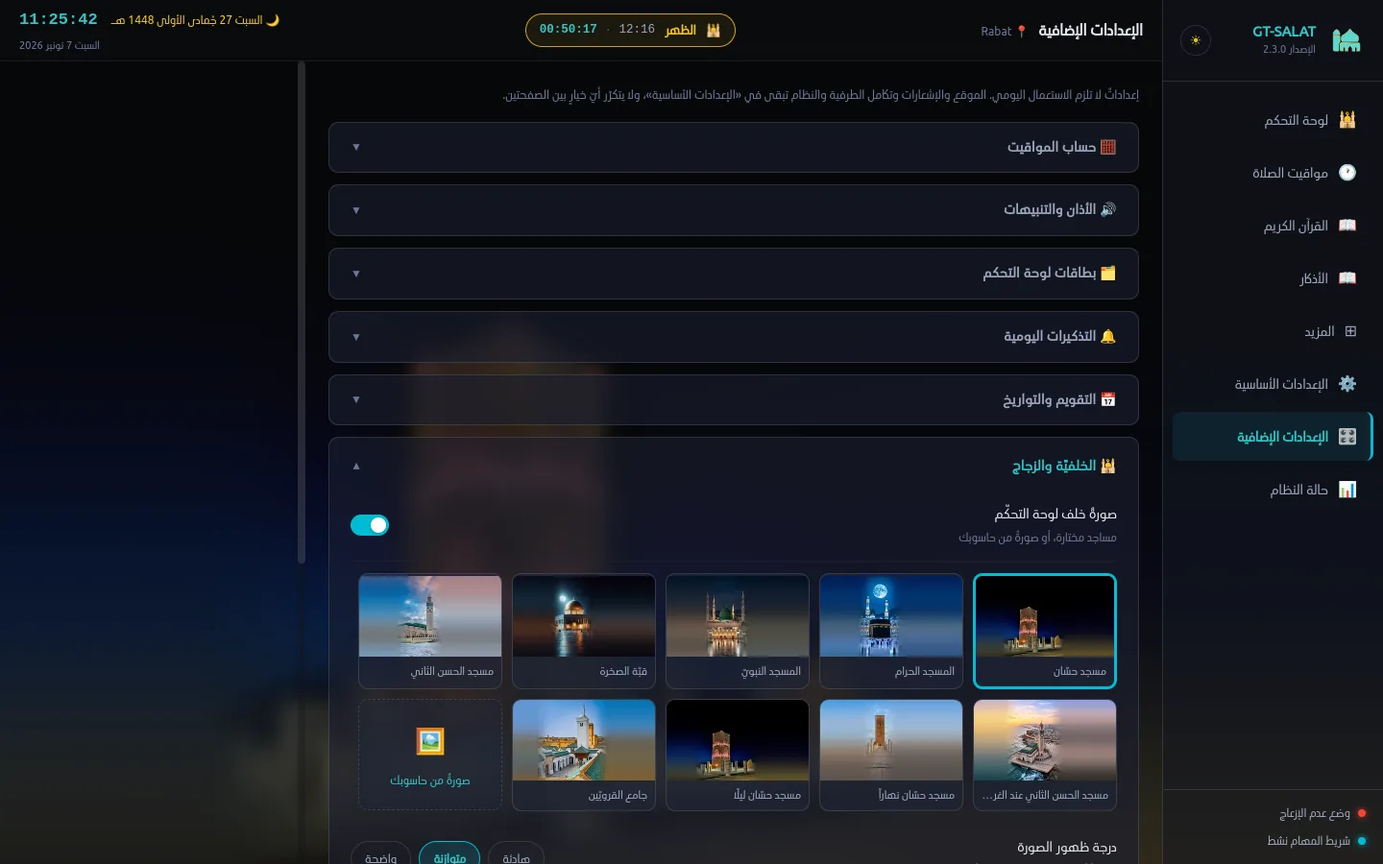
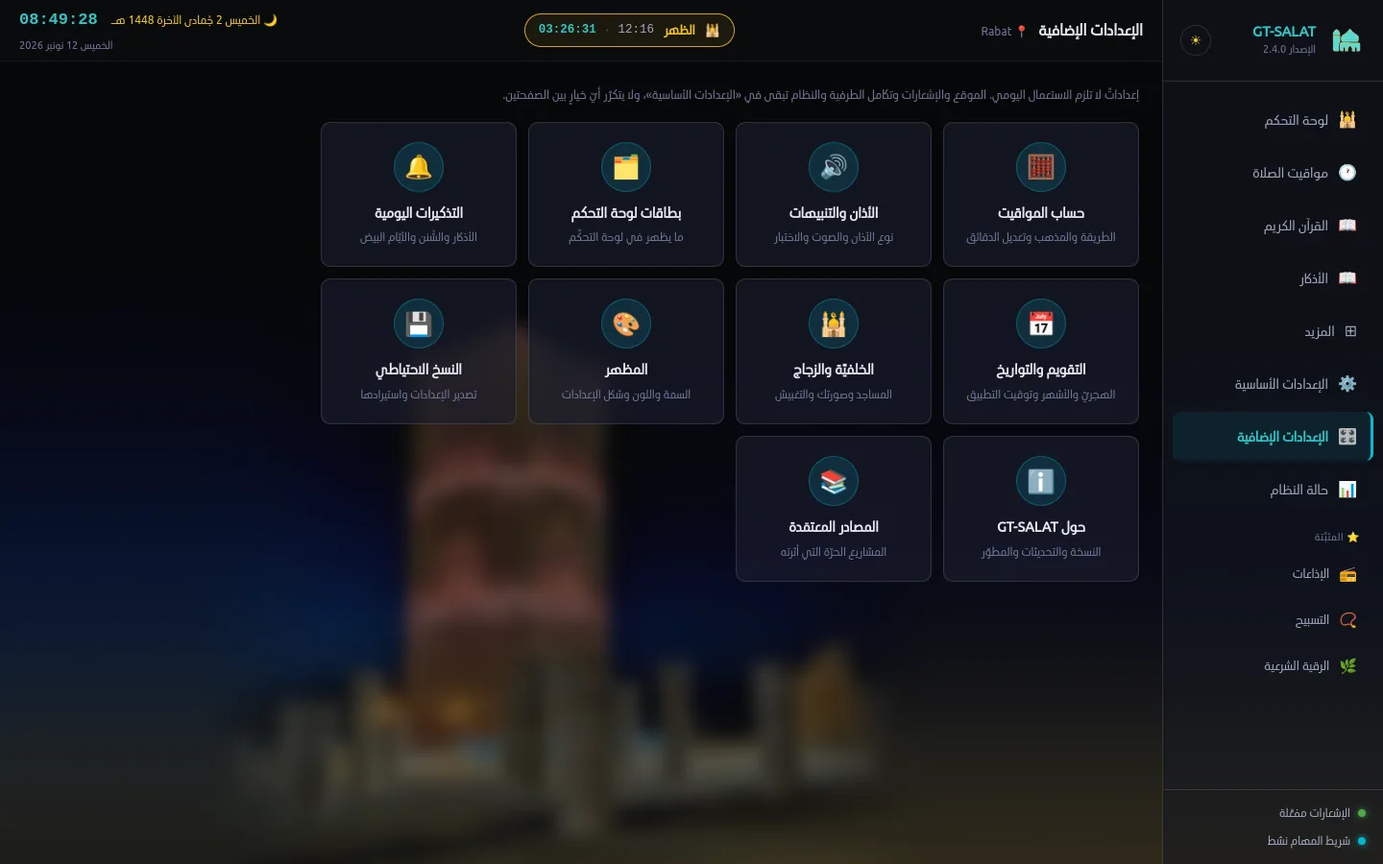
الموقع: الإصدار 2.4.0 وتصميمٌ متجاوبٌ مع الهاتف
- قائمة ☰ للأقسام على الشاشات الصغيرة، وبطاقتان في السطر للمزايا والمصادر بخطوطٍ ومسافاتٍ أصغر.
- لا فيض أفقيّاً: أوامر التثبيت تلتفّ، وجدول المقارنة صفوفٌ متراصّة، والبطاقات المجاورة لا تُقَصّ.
- بطاقة «الجديد» للإصدار 2.4.0، وروابط الحزم السبع وأحجامها وبصماتها، و37 إذاعة.
- لقطاتٌ جديدةٌ من 2.4.0 (المواقيت العرضيّة والإعدادات والأذكار بطاقات)، ولقطة الوضع الفاتح في الواجهة.

diff --git a/index.html b/index.html
@@ -220,6 +220,74 @@
     .gallery{grid-template-columns:1fr}
     .backdrop i{filter:blur(56px)}
   }
+
+  /* ── التجاوب مع الهاتف ─────────────────────────────────────────────
+     قائمة ☰ بدل الروابط المخفيّة، وبطاقتان في السطر بخطوطٍ أصغر، ولا فيضَ أفقيّاً. */
+  html{overflow-x:hidden}
+  .menu-btn{display:none}
+  .mnav{display:none}
+  @media(max-width:900px){
+    .menu-btn{display:inline-flex;align-items:center;justify-content:center}
+    .mnav{position:fixed;top:82px;left:12px;right:12px;z-index:30;border-radius:20px;padding:8px;flex-direction:column;gap:2px}
+    .mnav.open{display:flex}
+    .mnav a{padding:13px 16px;border-radius:14px;font-weight:600;color:var(--text)}
+    .mnav a:active,.mnav a:hover{background:var(--chip)}
+  }
+  @media(max-width:640px){
+    .nav-in{height:56px;padding:0 10px;gap:6px}
+    .brand b{font-size:1.1rem}
+    .brand img{width:30px;height:30px}
+    .icon-btn{width:38px;height:38px}
+    .hero{padding:22px 0 8px;gap:18px}
+    .hero-logo{width:70px;height:70px;border-radius:20px}
+    .hero h1{font-size:34px;margin:8px 0 2px}
+    .tag{font-size:1rem;line-height:1.75}
+    .badges{gap:6px;margin-top:14px}
+    .badge{font-size:.76rem;padding:5px 10px}
+    .section{padding:28px 0}
+    .sec-head{margin-bottom:16px}
+    .sec-head h2{font-size:1.55rem}
+    .sec-head p{font-size:.9rem}
+    .news-card{padding:18px}
+    .news-card h3{font-size:1.25rem}
+    .news-card li{font-size:.92rem;margin:5px 0}
+    .grid{grid-template-columns:1fr 1fr;gap:10px}
+    .card{padding:14px 12px;border-radius:18px}
+    .card:hover{transform:none}
+    .card .ic{width:40px;height:40px;font-size:1.15rem;margin-bottom:6px}
+    .card h3{font-size:1.02rem;margin:2px 0 4px}
+    .card p{font-size:.82rem;line-height:1.6}
+    .src-grid{grid-template-columns:1fr 1fr;gap:8px}
+    .src{padding:11px 12px;border-radius:14px}
+    .src b{font-size:.86rem}
+    .src span{font-size:.76rem;line-height:1.5}
+    .panel .amiri{font-size:1.2rem}
+    .dev{padding:24px 16px}
+    footer{padding:24px 0 30px}
+    footer .amiri{font-size:1.02rem}
+    footer p{font-size:.85rem}
+  }
+  @media(max-width:360px){.grid,.src-grid{grid-template-columns:1fr}}
+
+  /* سطح المكتب على الهاتف: أوامر التثبيت تلتفّ، والمقارنة صفوفٌ متراصّة، والبطاقات المجاورة لا تُقَصّ. */
+  .split > div{min-width:0}
+  @media(max-width:640px){
+    .cmd{flex-wrap:wrap;gap:6px}
+    .cmd small{flex-basis:100%;min-width:0}
+    .cmd code{white-space:normal;word-break:break-all;min-width:0}
+    .pkg{padding:16px}
+    .arm{padding:14px 12px}
+    .arm td{padding:7px 3px;font-size:.82rem}
+    .cmp{padding:4px}
+    .cmp table{min-width:0}
+    .cmp tr:first-child{display:none}
+    .cmp tr{display:grid;grid-template-columns:1fr 1fr;gap:2px 10px;padding:10px 8px;border-bottom:1px solid var(--edge)}
+    .cmp tr:last-child{border-bottom:none}
+    .cmp td{border:none;padding:2px 4px;font-size:.88rem}
+    .cmp td:first-child{grid-column:1/-1;color:var(--gold);font-weight:700}
+    .laptop .base{margin:0 -10px}
+    .gallery{gap:10px}
+  }
 </style>
 </head>
 <body>
@@ -235,10 +303,12 @@
       <a class="hide-sm" href="#download">التنزيل</a>
       <a class="hide-sm" href="#sources">المصادر</a>
       <a class="nav-phone" target="_blank" rel="noopener noreferrer" href="https://salehgnutux.github.io/GT-SALAT-PHONE/">📱 نسخة الهاتف</a>
+      <button class="icon-btn menu-btn" id="menuBtn" aria-label="قائمة الأقسام" aria-expanded="false">☰</button>
       <button class="icon-btn" id="themeBtn" aria-label="تبديل الوضع الداكن والفاتح">🌙</button>
     </nav>
   </div>
 </header>
+<nav class="mnav glass strong" id="mnav" aria-label="أقسام الصفحة"><a href="#news">الجديد</a><a href="#features">المميزات</a><a href="#screenshots">اللقطات</a><a href="#download">التنزيل</a><a href="#sources">المصادر</a></nav>
 
 <a id="top"></a>
 <div class="wrap">
@@ -254,10 +324,10 @@
         <span class="badge">🐧 <span class="num">x86_64 · arm64 · armv7l</span></span>
       </div>
       <div class="cta">
-        <a class="btn primary" href="#download">⬇ تنزيل <span class="num">2.3.1</span></a>
+        <a class="btn primary" href="#download">⬇ تنزيل <span class="num">2.4.0</span></a>
         <a class="btn ghost" href="#news">✨ ما الجديد</a>
       </div>
-      <span class="ver"><i></i>الإصدار المستقرّ <span class="num">2.3.1</span> · نونبر 2026</span>
+      <span class="ver"><i></i>الإصدار المستقرّ <span class="num">2.4.0</span> · نونبر 2026</span>
       <div class="phone-strip glass">
         <span class="lbl">📱 <b>متوفّرٌ أيضاً للهاتف</b>: نسخة أندرويد بالمزايا نفسها، أحدث إصدارٍ <b class="num">v2.2</b>.</span>
         <a class="btn ghost" target="_blank" rel="noopener noreferrer" href="https://salehgnutux.github.io/GT-SALAT-PHONE/">🌐 موقع نسخة الهاتف</a>
@@ -289,29 +359,29 @@
     <div class="sec-head reveal">
       <div class="eyebrow">آخر الإصدارات</div>
       <h2>الجديد في GT‑SALAT</h2>
-      <p>الإصدار 2.3 يصلح توقيت التطبيق ويحمل إلى سطح المكتب تصميم نسخة الهاتف الزجاجيّ وخلفيّاتها، و2.3.1 يكمّله بأذانٍ لا يتداخل مع وسائطك.</p>
+      <p>الإصدار 2.4 يجعل إيقاف الأذان في متناولك من الإشعار ولوحة التحكّم، ويحمل من نسخة الهاتف 2.2 بطاقات الإعدادات والأذكار والمواقيت العرضيّة.</p>
     </div>
     <div class="news">
       <div class="news-card glass strong reveal">
-        <div class="eyebrow">الإصدار <span class="num">2.3.1</span> · صدر في 7 نونبر 2026</div>
-        <h3>أذانٌ لا يتداخل، ونافذةٌ تُغلَق</h3>
+        <div class="eyebrow">الإصدار <span class="num">2.4.0</span> · صدر في 12 نونبر 2026</div>
+        <h3>إيقافٌ في متناولك، وبطاقاتٌ كالهاتف</h3>
         <ul>
-          <li><b>زرّ إغلاق نافذة الأذان يعمل</b> ويوقف الصوت فوراً، وكذلك مفتاح Esc.</li>
-          <li><b>الأذان لا يتداخل مع وسائطك:</b> المتصفّح ومشغّلات الموسيقى والإذاعة تُوقَف مؤقّتاً ثمّ تُستأنف بعده.</li>
-          <li><b>زرّ «اختبار الأذان في وقته»</b> بصوته ونافذته، كما يحدث عند دخول الوقت.</li>
-          <li><b>التحديث يجلب صيغة تثبيتك نفسها</b> (deb أو rpm أو AppImage) ويتحقّق من بصمتها، ويُعاد التطبيق بعد تحديث AppImage.</li>
-          <li><b>الوضع الفاتح أوضح</b> بألوان تمييزٍ أغمق.</li>
+          <li><b>زرّ «إيقاف الأذان» في الإشعار نفسه</b>، وشريطٌ بارزٌ أعلى لوحة التحكّم، يوقفان الصوت ويُغلقان نافذة الأذان.</li>
+          <li><b>مواقيت اليوم صفٌّ عرضيّ</b> يُقلَب شبكةً بنقرة.</li>
+          <li><b>الإعدادات بطاقاتٌ</b> تفتح صفحات أقسامها، والشكل السابق خيار.</li>
+          <li><b>الأذكار بطاقةً بطاقة</b> تُنقَر للعدّ وتنتقل تلقائيّاً، ولوحة المفاتيح للعدّ والتنقّل.</li>
+          <li><b>مؤقّت الإيقاف حلقةٌ</b> في المشغّل، و<b>القارئ الطبلاوي</b> في التلاوات والإذاعات.</li>
         </ul>
       </div>
       <div class="news-card glass reveal">
-        <div class="eyebrow">الإصدار <span class="num">2.3.0</span> · صدر في 7 نونبر 2026</div>
-        <h3>التوقيت يتبع النظام، وتصميمٌ زجاجيّ</h3>
+        <div class="eyebrow">الإصداران <span class="num">2.3</span> و<span class="num">2.3.1</span></div>
+        <h3>التوقيت والتصميم الزجاجيّ</h3>
         <ul class="muted">
-          <li>إصلاح تقدّم الساعة والأذان ساعةً في المغرب</li>
-          <li>خلفيّات المساجد أو صورةٌ من حاسوبك</li>
-          <li>السمة الزجاجيّة بشدّة تغبيش</li>
-          <li>الأذان المغربيّ كاملاً وقصيراً</li>
-          <li>مؤقّت الإذاعة و372 مدينةً مغربيّة</li>
+          <li>التطبيق يتبع توقيت النظام</li>
+          <li>خلفيّات المساجد والسمة الزجاجيّة</li>
+          <li>الأذان المغربيّ</li>
+          <li>الأذان لا يتداخل مع وسائطك</li>
+          <li>التحديث بصيغة التثبيت نفسها</li>
         </ul>
       </div>
     </div>
@@ -326,7 +396,7 @@
     <div class="grid">
       <div class="card glass reveal"><div class="ic">🕌</div><h3>مواقيت وأذان</h3><p><span class="num">22</span> طريقة حساب، ومواقيت الإنترنت بإزاحة الخادم مع حسابٍ محلّيٍّ احتياطيّ، وأذانٌ بالصيغة المغربيّة أو المشرقيّة أو بملفّك، ونافذة أذانٍ بملء الشاشة.</p></div>
       <div class="card glass reveal"><div class="ic">📖</div><h3>القرآن الكريم</h3><p>نصٌّ باستماعٍ آية-بآية وتظليلٍ متزامن، وتلاواتٌ كاملة، و<span class="num">4</span> روايات، ومصحفٌ مصوَّر، وتفسيرٌ ميسّر، وبحثٌ في الآيات، وتنزيلٌ للعمل دون إنترنت.</p></div>
-      <div class="card glass reveal"><div class="ic">📻</div><h3>الإذاعات</h3><p><span class="num">36</span> إذاعةً قرآنيّةً ببثٍّ حيٍّ يعيد الاتّصال تلقائيّاً، مع مؤقّتٍ للإيقاف وإذاعاتٍ مخصّصة.</p></div>
+      <div class="card glass reveal"><div class="ic">📻</div><h3>الإذاعات</h3><p><span class="num">37</span> إذاعةً قرآنيّةً ببثٍّ حيٍّ يعيد الاتّصال تلقائيّاً، مع مؤقّتٍ للإيقاف وإذاعاتٍ مخصّصة.</p></div>
       <div class="card glass reveal"><div class="ic">📿</div><h3>الأذكار وحصن المسلم</h3><p>أذكار الصباح والمساء والنوم بعدّها وصوتها المسجَّل، وحصن المسلم في <span class="num">132</span> باباً، وتسبيحٌ صوتيّ ومختلط.</p></div>
       <div class="card glass reveal"><div class="ic">✨</div><h3>السمة الزجاجيّة</h3><p>لوحاتٌ كالزجاج فوق خلفيّات المساجد أو صورتك أنت، بشدّة تغبيشٍ تضبطها ودرجة ظهورٍ تختارها.</p></div>
       <div class="card glass reveal"><div class="ic">🕐</div><h3>توقيتٌ يتبع النظام</h3><p>يقرأ التطبيق إزاحة نظامك الفعليّة ولو قَدُمت بيانات المناطق المضمَّنة، ولك تصحيح التوقيت يدويّاً.</p></div>
@@ -343,14 +413,14 @@
     <div class="sec-head reveal">
       <div class="eyebrow">لقطاتٌ حقيقيّة</div>
       <h2>هكذا يبدو التطبيق</h2>
-      <p>لقطاتٌ من الإصدار <span class="num">2.3.0</span> بالسمة الزجاجيّة. انقر لتكبيرها.</p>
+      <p>لقطاتٌ من الإصدار <span class="num">2.4.0</span> بالسمة الزجاجيّة. انقر لتكبيرها.</p>
     </div>
     <div class="gallery">
       <figure class="shot glass reveal"><img src="screenshots/dashboard.webp" alt="لوحة التحكّم" loading="lazy" width="1440" height="900" /><figcaption>لوحة التحكّم</figcaption></figure>
       <figure class="shot glass reveal"><img src="screenshots/timetable.webp" alt="مواقيت الصلاة" loading="lazy" width="1440" height="900" /><figcaption>مواقيت الصلاة</figcaption></figure>
       <figure class="shot glass reveal"><img src="screenshots/more.webp" alt="قسم المزيد" loading="lazy" width="1440" height="900" /><figcaption>المزيد</figcaption></figure>
       <figure class="shot glass reveal"><img src="screenshots/dhikr.webp" alt="الأذكار" loading="lazy" width="1440" height="900" /><figcaption>الأذكار</figcaption></figure>
-      <figure class="shot glass reveal"><img src="screenshots/advanced.webp" alt="الخلفيّة والزجاج في الإعدادات الإضافيّة" loading="lazy" width="1440" height="900" /><figcaption>الخلفيّة والزجاج</figcaption></figure>
+      <figure class="shot glass reveal"><img src="screenshots/advanced.webp" alt="الإعدادات الإضافيّة بطاقات" loading="lazy" width="1440" height="900" /><figcaption>الإعدادات الإضافيّة</figcaption></figure>
       <figure class="shot glass reveal"><img src="screenshots/settings.webp" alt="الإعدادات الأساسيّة" loading="lazy" width="1440" height="900" /><figcaption>الإعدادات الأساسيّة</figcaption></figure>
     </div>
   </section>
@@ -367,40 +437,40 @@
     <div class="download glass strong reveal">
       <div class="eyebrow">الإصدار المستقرّ</div>
       <h2>نزّل التطبيق</h2>
-      <span class="ver"><i></i><span class="num">2.3.1</span> مستقرّ</span>
+      <span class="ver"><i></i><span class="num">2.4.0</span> مستقرّ</span>
       <div class="pkgs">
         <div class="pkg glass">
           <div class="pkg-ic"><i class="fas fa-cube" aria-hidden="true"></i></div>
           <h3>AppImage</h3>
           <span class="muted">كلّ التوزيعات · بلا تثبيت</span>
-          <span class="meta"><code>GT-SALAT-2.3.1-x86_64.AppImage</code><br /><span class="num">134 MB · sha256: 22f78c86…</span></span>
-          <a class="btn primary" target="_blank" rel="noopener noreferrer" href="https://github.com/SalehGNUTUX/GT-SALAT/releases/download/GT-SALAT-2.3.1/GT-SALAT-2.3.1-x86_64.AppImage"><i class="fas fa-download" aria-hidden="true"></i> تحميل AppImage</a>
+          <span class="meta"><code>GT-SALAT-2.4.0-x86_64.AppImage</code><br /><span class="num">134 MB · sha256: 7b843a53…</span></span>
+          <a class="btn primary" target="_blank" rel="noopener noreferrer" href="https://github.com/SalehGNUTUX/GT-SALAT/releases/download/GT-SALAT-2.4.0/GT-SALAT-2.4.0-x86_64.AppImage"><i class="fas fa-download" aria-hidden="true"></i> تحميل AppImage</a>
         </div>
         <div class="pkg glass">
           <div class="pkg-ic"><i class="fab fa-ubuntu" aria-hidden="true"></i></div>
           <h3>DEB</h3>
           <span class="muted">Debian · Ubuntu · Linux Mint</span>
-          <span class="meta"><code>GT-SALAT_2.3.1_amd64.deb</code><br /><span class="num">102 MB · sha256: 593137b4…</span></span>
-          <a class="btn primary" target="_blank" rel="noopener noreferrer" href="https://github.com/SalehGNUTUX/GT-SALAT/releases/download/GT-SALAT-2.3.1/GT-SALAT_2.3.1_amd64.deb"><i class="fas fa-download" aria-hidden="true"></i> تحميل DEB</a>
+          <span class="meta"><code>GT-SALAT_2.4.0_amd64.deb</code><br /><span class="num">102 MB · sha256: 6421f70d…</span></span>
+          <a class="btn primary" target="_blank" rel="noopener noreferrer" href="https://github.com/SalehGNUTUX/GT-SALAT/releases/download/GT-SALAT-2.4.0/GT-SALAT_2.4.0_amd64.deb"><i class="fas fa-download" aria-hidden="true"></i> تحميل DEB</a>
         </div>
         <div class="pkg glass">
           <div class="pkg-ic"><i class="fab fa-fedora" aria-hidden="true"></i></div>
           <h3>RPM</h3>
           <span class="muted">Fedora · RHEL · openSUSE</span>
-          <span class="meta"><code>gt-salat-2.3.1-1.x86_64.rpm</code><br /><span class="num">102 MB · sha256: 827be425…</span></span>
-          <a class="btn primary" target="_blank" rel="noopener noreferrer" href="https://github.com/SalehGNUTUX/GT-SALAT/releases/download/GT-SALAT-2.3.1/gt-salat-2.3.1-1.x86_64.rpm"><i class="fas fa-download" aria-hidden="true"></i> تحميل RPM</a>
+          <span class="meta"><code>gt-salat-2.4.0-1.x86_64.rpm</code><br /><span class="num">102 MB · sha256: 407524be…</span></span>
+          <a class="btn primary" target="_blank" rel="noopener noreferrer" href="https://github.com/SalehGNUTUX/GT-SALAT/releases/download/GT-SALAT-2.4.0/gt-salat-2.4.0-1.x86_64.rpm"><i class="fas fa-download" aria-hidden="true"></i> تحميل RPM</a>
         </div>
       </div>
 
       <div class="arm glass">
         <h3><i class="fas fa-microchip" aria-hidden="true"></i>ARM (راسبيري باي · حواسيب ARM)</h3>
         <table>
-          <tr><td><i class="fab fa-raspberry-pi" aria-hidden="true"></i>arm64</td><td><a target="_blank" rel="noopener noreferrer" href="https://github.com/SalehGNUTUX/GT-SALAT/releases/download/GT-SALAT-2.3.1/GT-SALAT-2.3.1-arm64.AppImage"><i class="fas fa-cube" aria-hidden="true"></i>AppImage</a></td><td class="meta"><span class="num">134 MB · c61c29d8…</span></td></tr>
-          <tr><td><i class="fab fa-raspberry-pi" aria-hidden="true"></i>arm64</td><td><a target="_blank" rel="noopener noreferrer" href="https://github.com/SalehGNUTUX/GT-SALAT/releases/download/GT-SALAT-2.3.1/GT-SALAT_2.3.1_arm64.deb"><i class="fab fa-ubuntu" aria-hidden="true"></i>DEB</a></td><td class="meta"><span class="num">98 MB · 5e0e2a08…</span></td></tr>
-          <tr><td><i class="fab fa-raspberry-pi" aria-hidden="true"></i>armv7l</td><td><a target="_blank" rel="noopener noreferrer" href="https://github.com/SalehGNUTUX/GT-SALAT/releases/download/GT-SALAT-2.3.1/GT-SALAT-2.3.1-armv7l.AppImage"><i class="fas fa-cube" aria-hidden="true"></i>AppImage</a></td><td class="meta"><span class="num">123 MB · f4720900…</span></td></tr>
-          <tr><td><i class="fab fa-raspberry-pi" aria-hidden="true"></i>armv7l</td><td><a target="_blank" rel="noopener noreferrer" href="https://github.com/SalehGNUTUX/GT-SALAT/releases/download/GT-SALAT-2.3.1/GT-SALAT_2.3.1_armv7l.deb"><i class="fab fa-ubuntu" aria-hidden="true"></i>DEB</a></td><td class="meta"><span class="num">96 MB · be10f2fc…</span></td></tr>
+          <tr><td><i class="fab fa-raspberry-pi" aria-hidden="true"></i>arm64</td><td><a target="_blank" rel="noopener noreferrer" href="https://github.com/SalehGNUTUX/GT-SALAT/releases/download/GT-SALAT-2.4.0/GT-SALAT-2.4.0-arm64.AppImage"><i class="fas fa-cube" aria-hidden="true"></i>AppImage</a></td><td class="meta"><span class="num">134 MB · 847a3a1c…</span></td></tr>
+          <tr><td><i class="fab fa-raspberry-pi" aria-hidden="true"></i>arm64</td><td><a target="_blank" rel="noopener noreferrer" href="https://github.com/SalehGNUTUX/GT-SALAT/releases/download/GT-SALAT-2.4.0/GT-SALAT_2.4.0_arm64.deb"><i class="fab fa-ubuntu" aria-hidden="true"></i>DEB</a></td><td class="meta"><span class="num">98 MB · cf8d2f7b…</span></td></tr>
+          <tr><td><i class="fab fa-raspberry-pi" aria-hidden="true"></i>armv7l</td><td><a target="_blank" rel="noopener noreferrer" href="https://github.com/SalehGNUTUX/GT-SALAT/releases/download/GT-SALAT-2.4.0/GT-SALAT-2.4.0-armv7l.AppImage"><i class="fas fa-cube" aria-hidden="true"></i>AppImage</a></td><td class="meta"><span class="num">123 MB · 51539b18…</span></td></tr>
+          <tr><td><i class="fab fa-raspberry-pi" aria-hidden="true"></i>armv7l</td><td><a target="_blank" rel="noopener noreferrer" href="https://github.com/SalehGNUTUX/GT-SALAT/releases/download/GT-SALAT-2.4.0/GT-SALAT_2.4.0_armv7l.deb"><i class="fab fa-ubuntu" aria-hidden="true"></i>DEB</a></td><td class="meta"><span class="num">96 MB · 4dd8e379…</span></td></tr>
         </table>
-        <p class="meta" style="margin:8px 0 0">اعرف معماريّة جهازك بالأمر <code>uname -m</code>. البصمات كاملةً في <a target="_blank" rel="noopener noreferrer" href="https://github.com/SalehGNUTUX/GT-SALAT/releases/tag/GT-SALAT-2.3.1">صفحة الإصدار</a>.</p>
+        <p class="meta" style="margin:8px 0 0">اعرف معماريّة جهازك بالأمر <code>uname -m</code>. البصمات كاملةً في <a target="_blank" rel="noopener noreferrer" href="https://github.com/SalehGNUTUX/GT-SALAT/releases/tag/GT-SALAT-2.4.0">صفحة الإصدار</a>.</p>
       </div>
 
       <p class="note">من الإصدار <span class="num">2.2.1</span> فما بعد يصلك الجديد من داخل التطبيق: «الإعدادات الإضافيّة ← حول ← فحص التحديثات».</p>
@@ -408,9 +478,9 @@
       <div class="split">
         <div class="glass">
           <h3>🛠 التثبيت</h3>
-          <div class="cmd"><small>Debian · Ubuntu</small><code>sudo apt install ./GT-SALAT_2.3.1_amd64.deb</code><button data-copy>نسخ</button></div>
-          <div class="cmd"><small>Fedora · RHEL</small><code>sudo dnf install ./gt-salat-2.3.1-1.x86_64.rpm</code><button data-copy>نسخ</button></div>
-          <div class="cmd"><small>AppImage</small><code>chmod +x GT-SALAT-2.3.1-x86_64.AppImage</code><button data-copy>نسخ</button></div>
+          <div class="cmd"><small>Debian · Ubuntu</small><code>sudo apt install ./GT-SALAT_2.4.0_amd64.deb</code><button data-copy>نسخ</button></div>
+          <div class="cmd"><small>Fedora · RHEL</small><code>sudo dnf install ./gt-salat-2.4.0-1.x86_64.rpm</code><button data-copy>نسخ</button></div>
+          <div class="cmd"><small>AppImage</small><code>chmod +x GT-SALAT-2.4.0-x86_64.AppImage</code><button data-copy>نسخ</button></div>
           <p class="meta" style="margin:10px 0 0">ولصوت الأذان مشغّلٌ مثل <code>mpv</code> (أو ffplay أو cvlc أو paplay).</p>
         </div>
         <div class="glass">
@@ -541,6 +611,16 @@
       var io=new IntersectionObserver(function(es){es.forEach(function(e){if(e.isIntersecting){e.target.classList.add('in');io.unobserve(e.target);}})},{threshold:.1});
       document.querySelectorAll('.reveal').forEach(function(el){io.observe(el)});
     }catch(e){ document.querySelectorAll('.reveal').forEach(function(el){el.classList.add('in')}); }
+
+    // قائمة الأقسام على الهاتف: تُفتَح بـ☰ وتُغلَق باختيار رابطٍ أو بالنقر خارجها.
+    (function(){
+      var mb=document.getElementById('menuBtn'), mn=document.getElementById('mnav');
+      if(!mb||!mn) return;
+      function set(o){ mn.classList.toggle('open',o); mb.setAttribute('aria-expanded',o?'true':'false'); mb.textContent=o?'✕':'☰'; }
+      mb.addEventListener('click',function(e){ e.stopPropagation(); set(!mn.classList.contains('open')); });
+      mn.querySelectorAll('a').forEach(function(a){ a.addEventListener('click',function(){ set(false); }); });
+      document.addEventListener('click',function(e){ if(mn.classList.contains('open')&&!mn.contains(e.target)) set(false); });
+    })();
   })();
 </script>
 </body>

diff --git a/sw.js b/sw.js
@@ -1,4 +1,4 @@
-const CACHE_NAME = 'gt-salat-v2.3.1-p22';
+const CACHE_NAME = 'gt-salat-v2.4.0';
 const urlsToCache = [
   './',
   './index.html',
